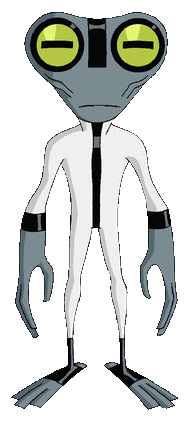
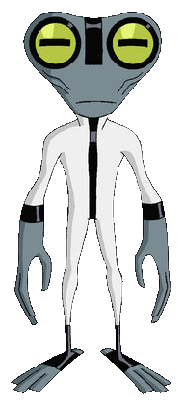
CHORE: Terminado com as imagens do classico no modal

diff --git a/resources/css/modal.css b/resources/css/modal.css
@@ -104,7 +104,7 @@
 .modal-card {
     /* width: 350px; */
     margin: 1% auto;
-    height: 350px;
+    /* height: 350px; */
 }
 
 .modal-card img {
@@ -183,12 +183,8 @@
 
 /* ===== CLASSIC ===== */
 
-#primeBenOsWildvine1, #primeBenOsWildvine2 {
-    height: 500px !important;
-}
-
-#primeBenOsWayBig1, #primeBenOsWayBig2 {
-    height: 400px !important;
+#primeBenOsFrankenstrike3 {
+    height: 400px;
 }
 
 #primeBenOsXlr8Modal li {
@@ -205,25 +201,21 @@
         grid-column: 1/3;
     }
 
-    #primeBenOsSnareOh2, #primeBenOsSnareOh3, #primeBenOsWildvine3, #primeBenOsFrankenstrike3, #primeBenOsFrankenstrike4, #primeBenOsFrankenstrike5, #primeBenOsEyeGuy5, #primeBenOsUpgrade3, #primeBenOsUpgrade4, #primeBenOsEyeGuyModal li, #primeBenOsBlitzWolferModal li, #primeBenAfAlienX3{
-        height: auto !important;
-    }
+    
 }
 
-/* @media (max-width: 350px) {
+@media (max-width: 400px) {
    
     .modal-card {
         height: 350px;
     }
-} */
 
-@media (min-width: 951px) {
+    /*VERIFICAR A ALTURA DESSAS IMAGENS E POR IGUAL*/
+    #primeBenOsRipjaws7, #primeBenOsCannonBoltModal li, #primeBenOsSnareOh3, #primeBenOsWildMuttModal li, #primeBenOsWildvine3, #primeBenOsDiamondHead6, #primeBenOsDitto3, #primeBenOsFrankenstrike3, #primeBenOsFrankenstrike4, #primeBenOsFrankenstrike5, #primeBenOsUpChuckP5,#primeBenOsStinkFly5  #primeBenOsBlitzWolferModal li, #primeBenOsEyeGuy5, #primeBenOsUpgrade3, #primeBenOsEyeGuyModal li, #primeBenOsUpgrade4{
+        height: auto !important;
+    }
 
-    /* .modal-card {
-        height: 350px;
-    } */
-
-    #primeBenAfAlienXModal li:not(li:last-child){
-        height: 500px;
+    #primeBenAfAlienX3 {
+        height: auto !important;
     }
 }
